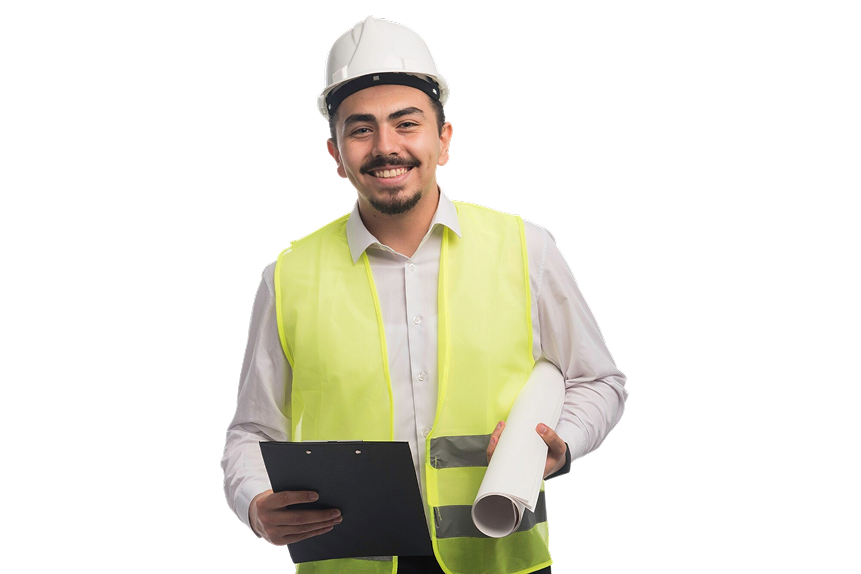
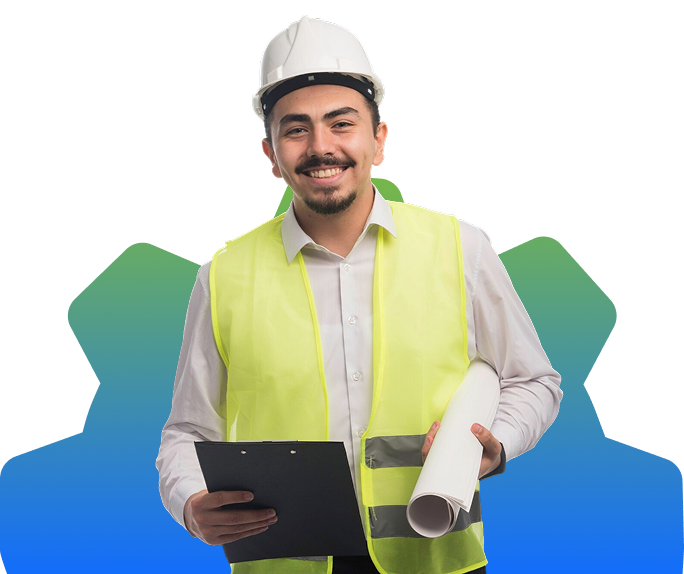
image fixed

diff --git a/src/components/reusable/Hero.jsx b/src/components/reusable/Hero.jsx
@@ -27,31 +27,12 @@ const Hero = ({ hero, badge = false, person = false, status = false }) => {
       />
 
       {/* Person Image */}
-      {
-
-        hero.isBg && <motion.img
-          initial={{ opacity: 0 }}
-          animate={{ opacity: 1 }}
-          transition={{ duration: 1, delay: 0.3 }}
-          src={hero.isBg}
-          alt="Hero Background"
-          className="absolute md:w-[35%] right-30 bottom-0 img-contain pointer-events-none"
-        />
-
-      }
-      {
-        person && <motion.img
-          initial={{ opacity: 0 }}
-          animate={{ opacity: 1 }}
-          transition={{ duration: 1, delay: 0.3 }}
-          src={hero.backgroundImage2}
-          alt="Hero Background"
-          className="absolute md:w-[50%] h-[70vh] right-0 bottom-0 img-contain pointer-events-none"
-        />}
+   
+      
 
       {/* Content */}
       {/* hero-content */}
-      <div className="hero-content">
+      <div className="hero-content justify-between">
         <motion.div
           initial={{ opacity: 0, x: -50 }}
           animate={{ opacity: 1, x: 0 }}
@@ -113,7 +94,17 @@ const Hero = ({ hero, badge = false, person = false, status = false }) => {
             </Link>
           </div>}
         </motion.div>
-
+ {
+        person && <motion.img
+          initial={{ opacity: 0 }}
+          animate={{ opacity: 1 }}
+          transition={{ duration: 1, delay: 0.3 }}
+          src={hero.backgroundImage2}
+          alt="Hero Background"
+          className=" w-[80%] sm:w-[40%] lg:h-[50%]  right-10 bottom-0 img-contain pointer-events-none"
+          style={{alignSelf:"end"}}
+        />
+      }
         {/* Floating Badge */}
         {
           badge && <motion.div
